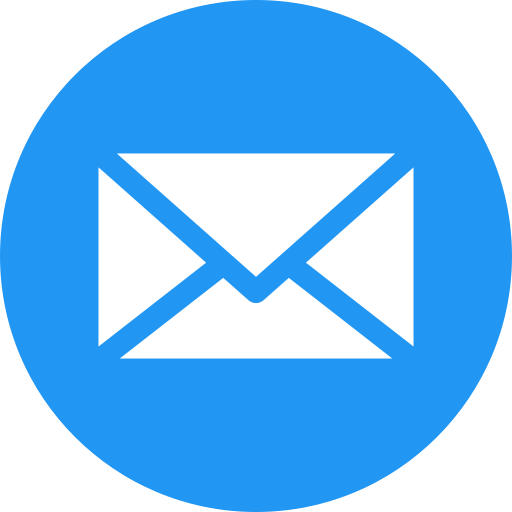
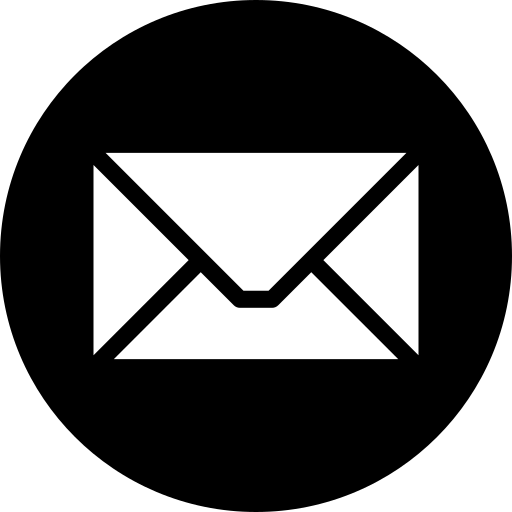
Segunda version
Cambios en estilos y otros aspectos.

diff --git a/style.css b/style.css
@@ -16,42 +16,48 @@
 /*General*/
 html,
 body {
-    margin: 0%;
-    padding: 0%;
+    margin: 0;
+    padding: 0;
     max-height: 100vh;
-    min-height: 95vh;
+    min-height: 90vh;
     width: 100%;
     background-image: url("Images/quimico.png");
     background-repeat: no-repeat;
-    background-attachment: fixed;
+    background-attachment: cover;
     background-position: top center;
     background-size: 100% 100%;
 }
 
 /*Header*/
 header {
-    padding: 1%;
+    display: block;
+    margin-top: 0;
+    padding: 0;
     max-height: 40vh;
-    min-height: 20vh;
+    min-height: 30vh;
+    width: 100%;
     text-align: center;
     background-image: url("Images/hexagonos.png");
-    background-repeat: no-repeat;
     background-attachment: fixed;
-    background-position: top center;
+    background-position: bottom center;
     background-size: 100% 100%;
+
 }
 
 /* Este es mi hola mundo*/
 #hi1 {
-
-    font-size: 50px;
+    margin: 0;
+    padding: 0;
+    font-size: 3.125rem;
     font-family: "LondonBetween";
     color: aliceblue;
-    -webkit-text-stroke-width: 2px;
-    -webkit-text-stroke-color: #282828;
+    -webkit-text-stroke-width: 3px;
+    -webkit-text-stroke-color: #000000;
 }
 
 #hi2 {
+    margin: 0;
+    padding: 0;
     font-family: 'CaviarDreams';
     font-weight: bold;
     font-size: large;
@@ -69,17 +75,17 @@ header {
 
 /* Main*/
 main {
-    background-color: #282828;
+    background-color: transparent;
     height: 100%;
     width: 100%;
-    position: fixed;
     display: flex;
     justify-content: center;
+     
 }
 
 /*Section*/
 section {
-    background-color: transparent;
+    background-color: #282828;
     width: 30%;
     display: flex;
     justify-content: center;
@@ -88,18 +94,40 @@ section {
 /*Articulo dentro de Section*/
 article {
     margin: 0% 3%;
-    background-color: rgb(203, 203, 203);
-    height: 40vh;
-    width: 30%;
-}
-
-.artP {
-    background-color: black;
     font-family: "CaviarDreams";
-    color: aliceblue;
-    font-size: small;
     writing-mode: vertical-rl;
     text-orientation: upright;
+}
+
+.artBox {
+    padding: 1% 0%;
+    background-color: #716e6e;
+    height: 4vh;
+    width: 30%;
+    font-size: 0.1rem;
+    color: rgba(0, 0, 0, 0);
+    cursor: pointer;
+    transition: background-color 0.4s, transform 0.4s;
+}
+
+.artBox:hover {
+    padding: 1% 0%;
+    height: 30vh;
+    width: 30%;
+    font-size: 0.875rem;
+    color: aliceblue;
+}
+
+#mi:hover {
+    background-color: #f6ac8b;
+}
+
+#proj:hover {
+    background-color: #99d9bb;
+}
+
+#ui:hover {
+    background-color: #ffcd5e;
 }
 
 /*Aside*/
@@ -107,29 +135,25 @@ aside {
     margin: 0% 0% 0% 1%;
     padding: 2%;
     width: 70%;
-    background-color: transparent;
+    background-color: #282828;
     color: aliceblue;
     text-align: center;
-
 }
 
-/*Footer
-a {
-    margin: 0% 2%;
-}
-
-.imgfooter {
-    height: 3vh;
-    width: 3vw;
-}
-*/
+/*Footer*/
 footer {
-    background-color: black;
+    background-color: #c7c5c5;
     position: absolute;
     left: 0;
     bottom: 0;
-    height: 5vh;
-    width: 50%;
-
+    height: 15vh;
+    width: 15vw;
+    display: flex;
+    justify-content: center;
+    align-items: center;
 }
 
+.imgfooter {
+    height: 4vh;
+    width: 3vw;
+}

diff --git a/Index.html b/Index.html
@@ -16,36 +16,38 @@
         <p id="hi2"><img id="maths" src="Icons/menor.png">IDEAS. CREATIVIDAD. CODIGO.<img id="maths"
                 src="Icons/dividir.png"><img id="maths" src="Icons/mayor.png"></p>
     </header>
-    <!--Nav-->
-    <nav>
-
-    </nav>
     <main>
         <!--Section-->
         <section>
-            <article id="mi">
-                <p class="artP">Sobre mi</p> 
+            <article id="mi" class="artBox">
+                <p>SOBRE MI</p>
             </article>
-            <article id="proj">
-                <p class="artP">Mis proyectos</p>
+            <article id="proj" class="artBox">
+                <p>PROYECTOS</p>
             </article>
-            <article id="extra">
-                <p class="artP">Extra</p>
+            <article id="ui" class="artBox">
+                <p>DISEÑOS UI</p>
             </article>
         </section>
         <!--Aside-->
         <aside>
             Aca va ir lo importante
         </aside>
+
     </main>
-    <!--Footer<div id="footerDiv">
-        <a href="mailto:melisavanesasapp@gmail.com"><img src="Icons/gmail.png" class="imgfooter" /></a>
-        <a href="https://www.linkedin.com/in/melisa-vanesa-s-998438192/" title="LinkedIn" target="_blank">
-        <img src="Icons/linkedin.png" class="imgfooter" /></a>
-        </div>-->
-    <footer id="footer">
-        
-    </footer>
+    <!--Footer-->
+    <div id="footerDiv">
+        <footer>
+            <div id="footerBox">
+                <a href="mailto:melisavanesasapp@gmail.com" title="Email"><img src="Icons/gmail.png"
+                    class="imgfooter" /></a>
+            <a href="https://www.linkedin.com/in/melisa-vanesa-s-998438192/" title="LinkedIn" target="_blank"><img
+                    src="Icons/linkedin.png" class="imgfooter" /></a>
+
+            </div>
+        </footer>
+    </div>
+
 
     <!--Javascript-->
     <script src="javascript.js"></script>
